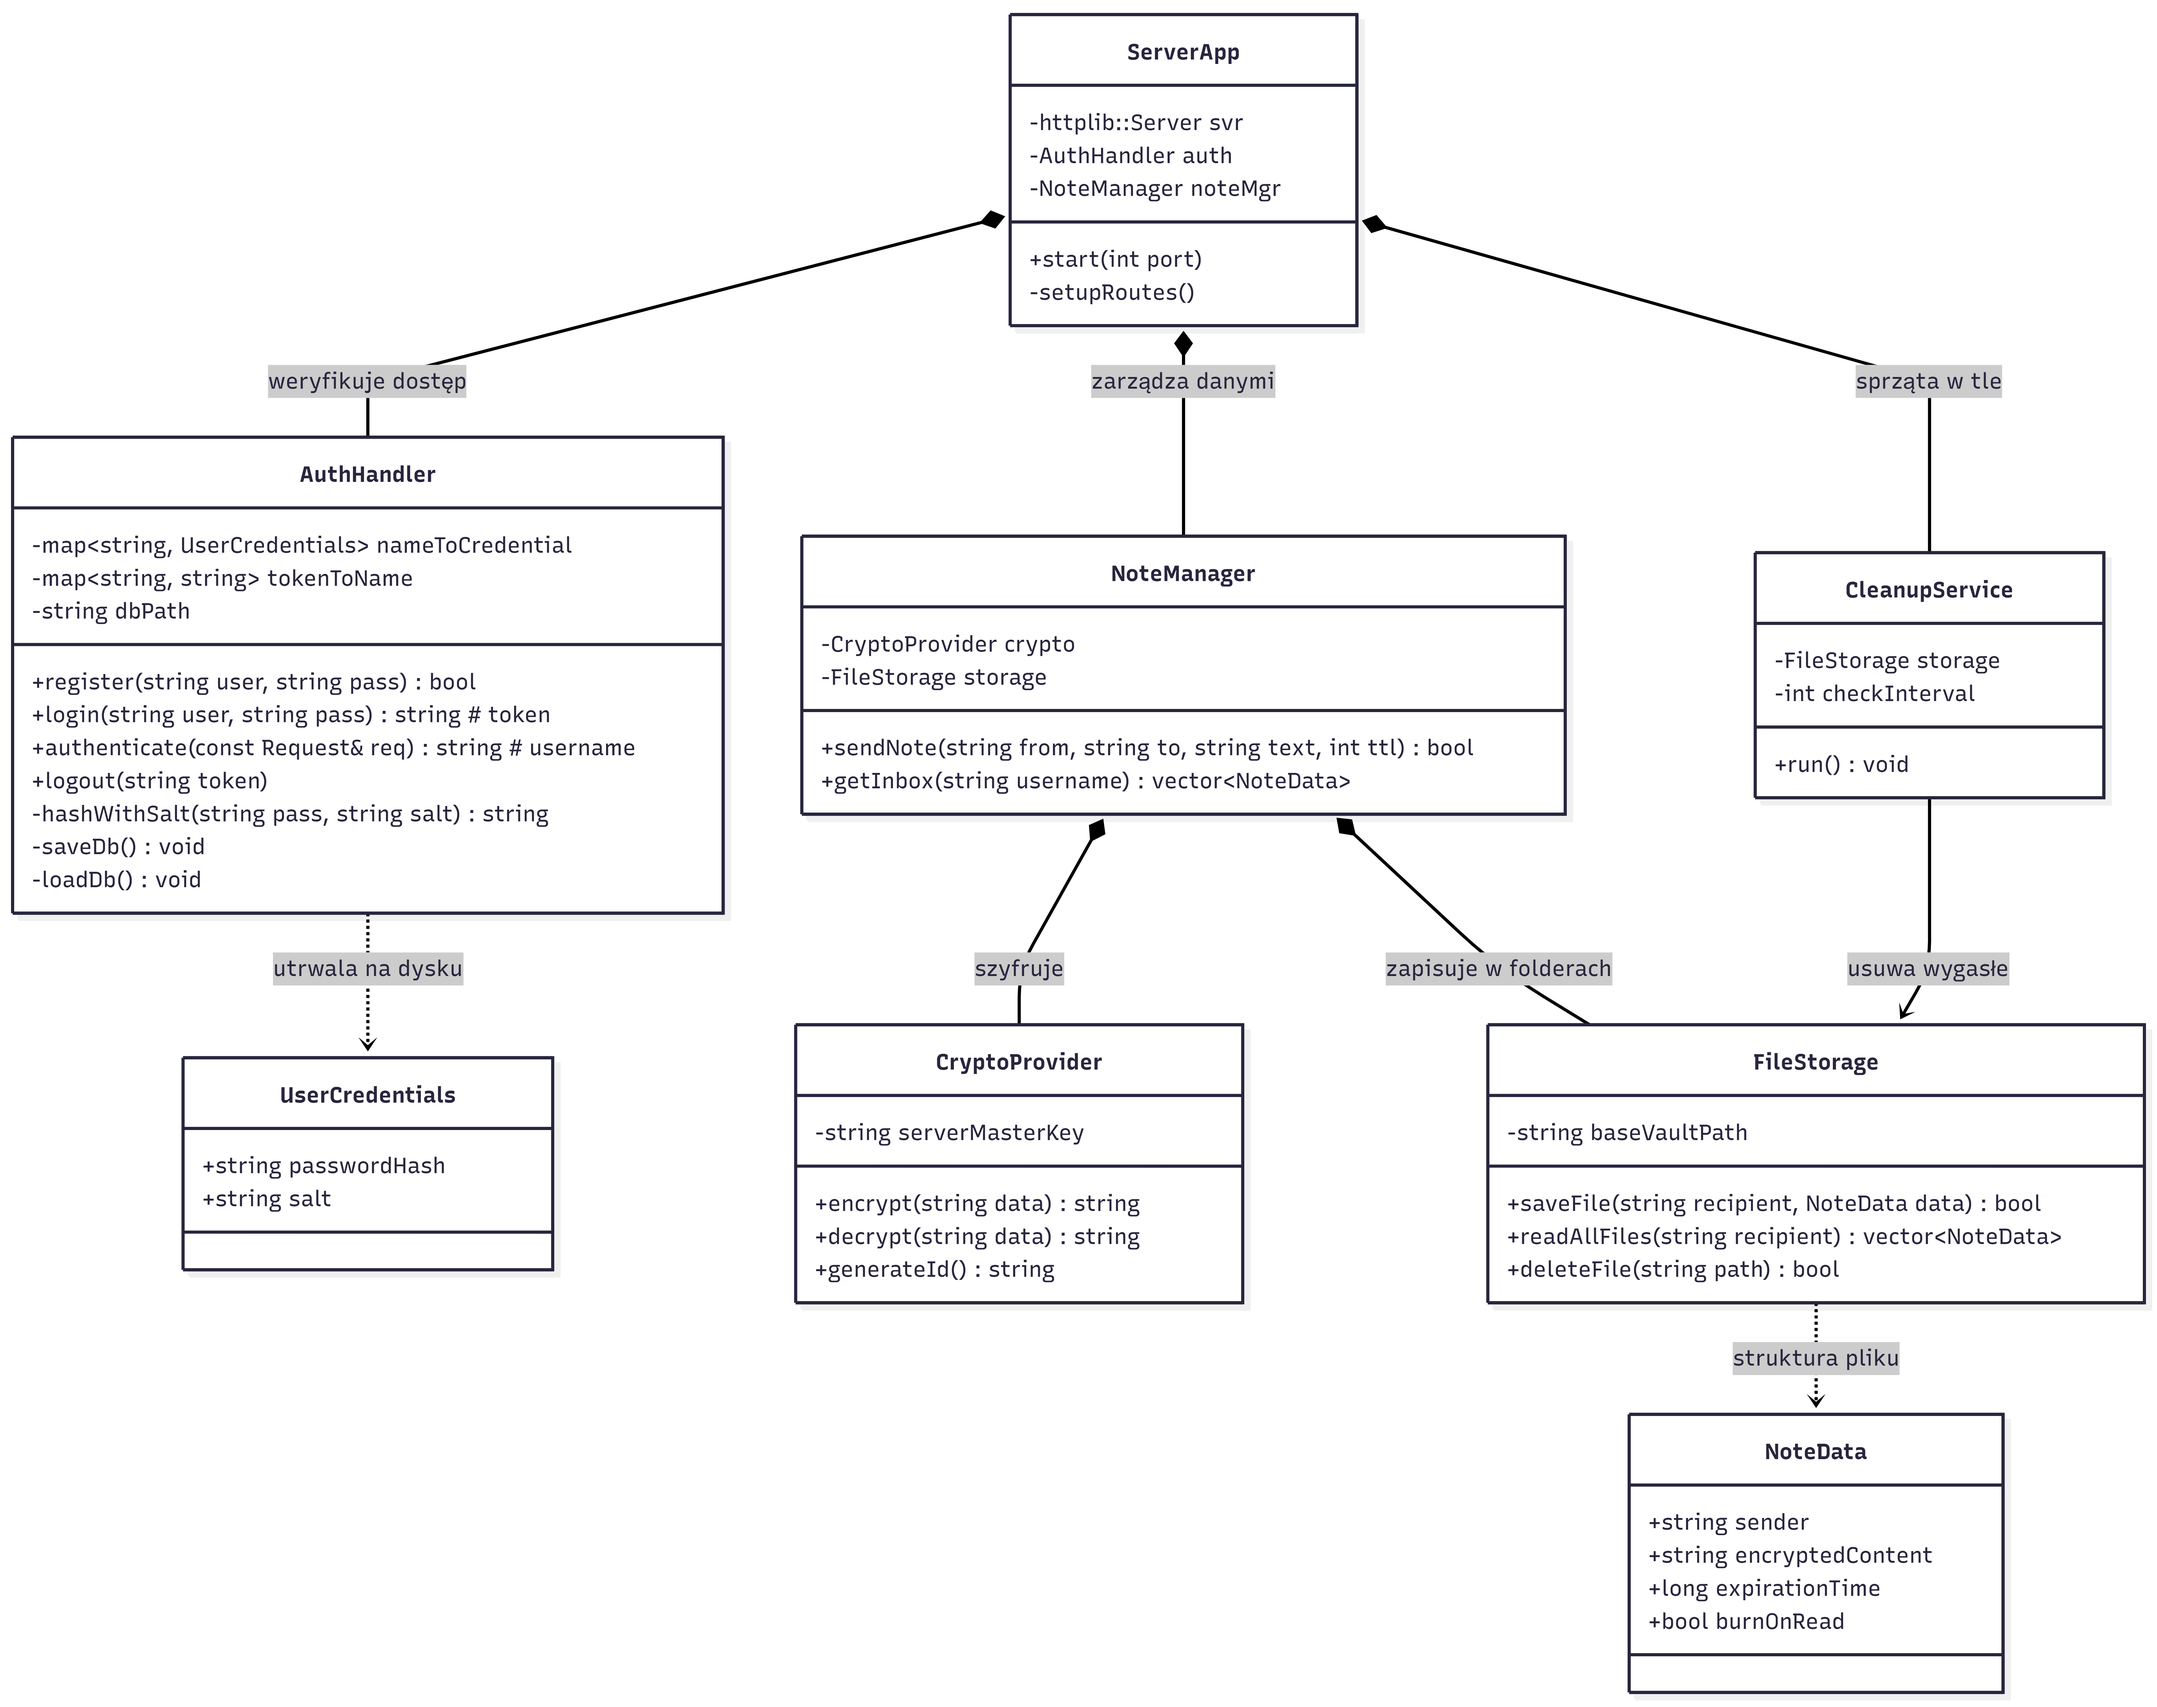
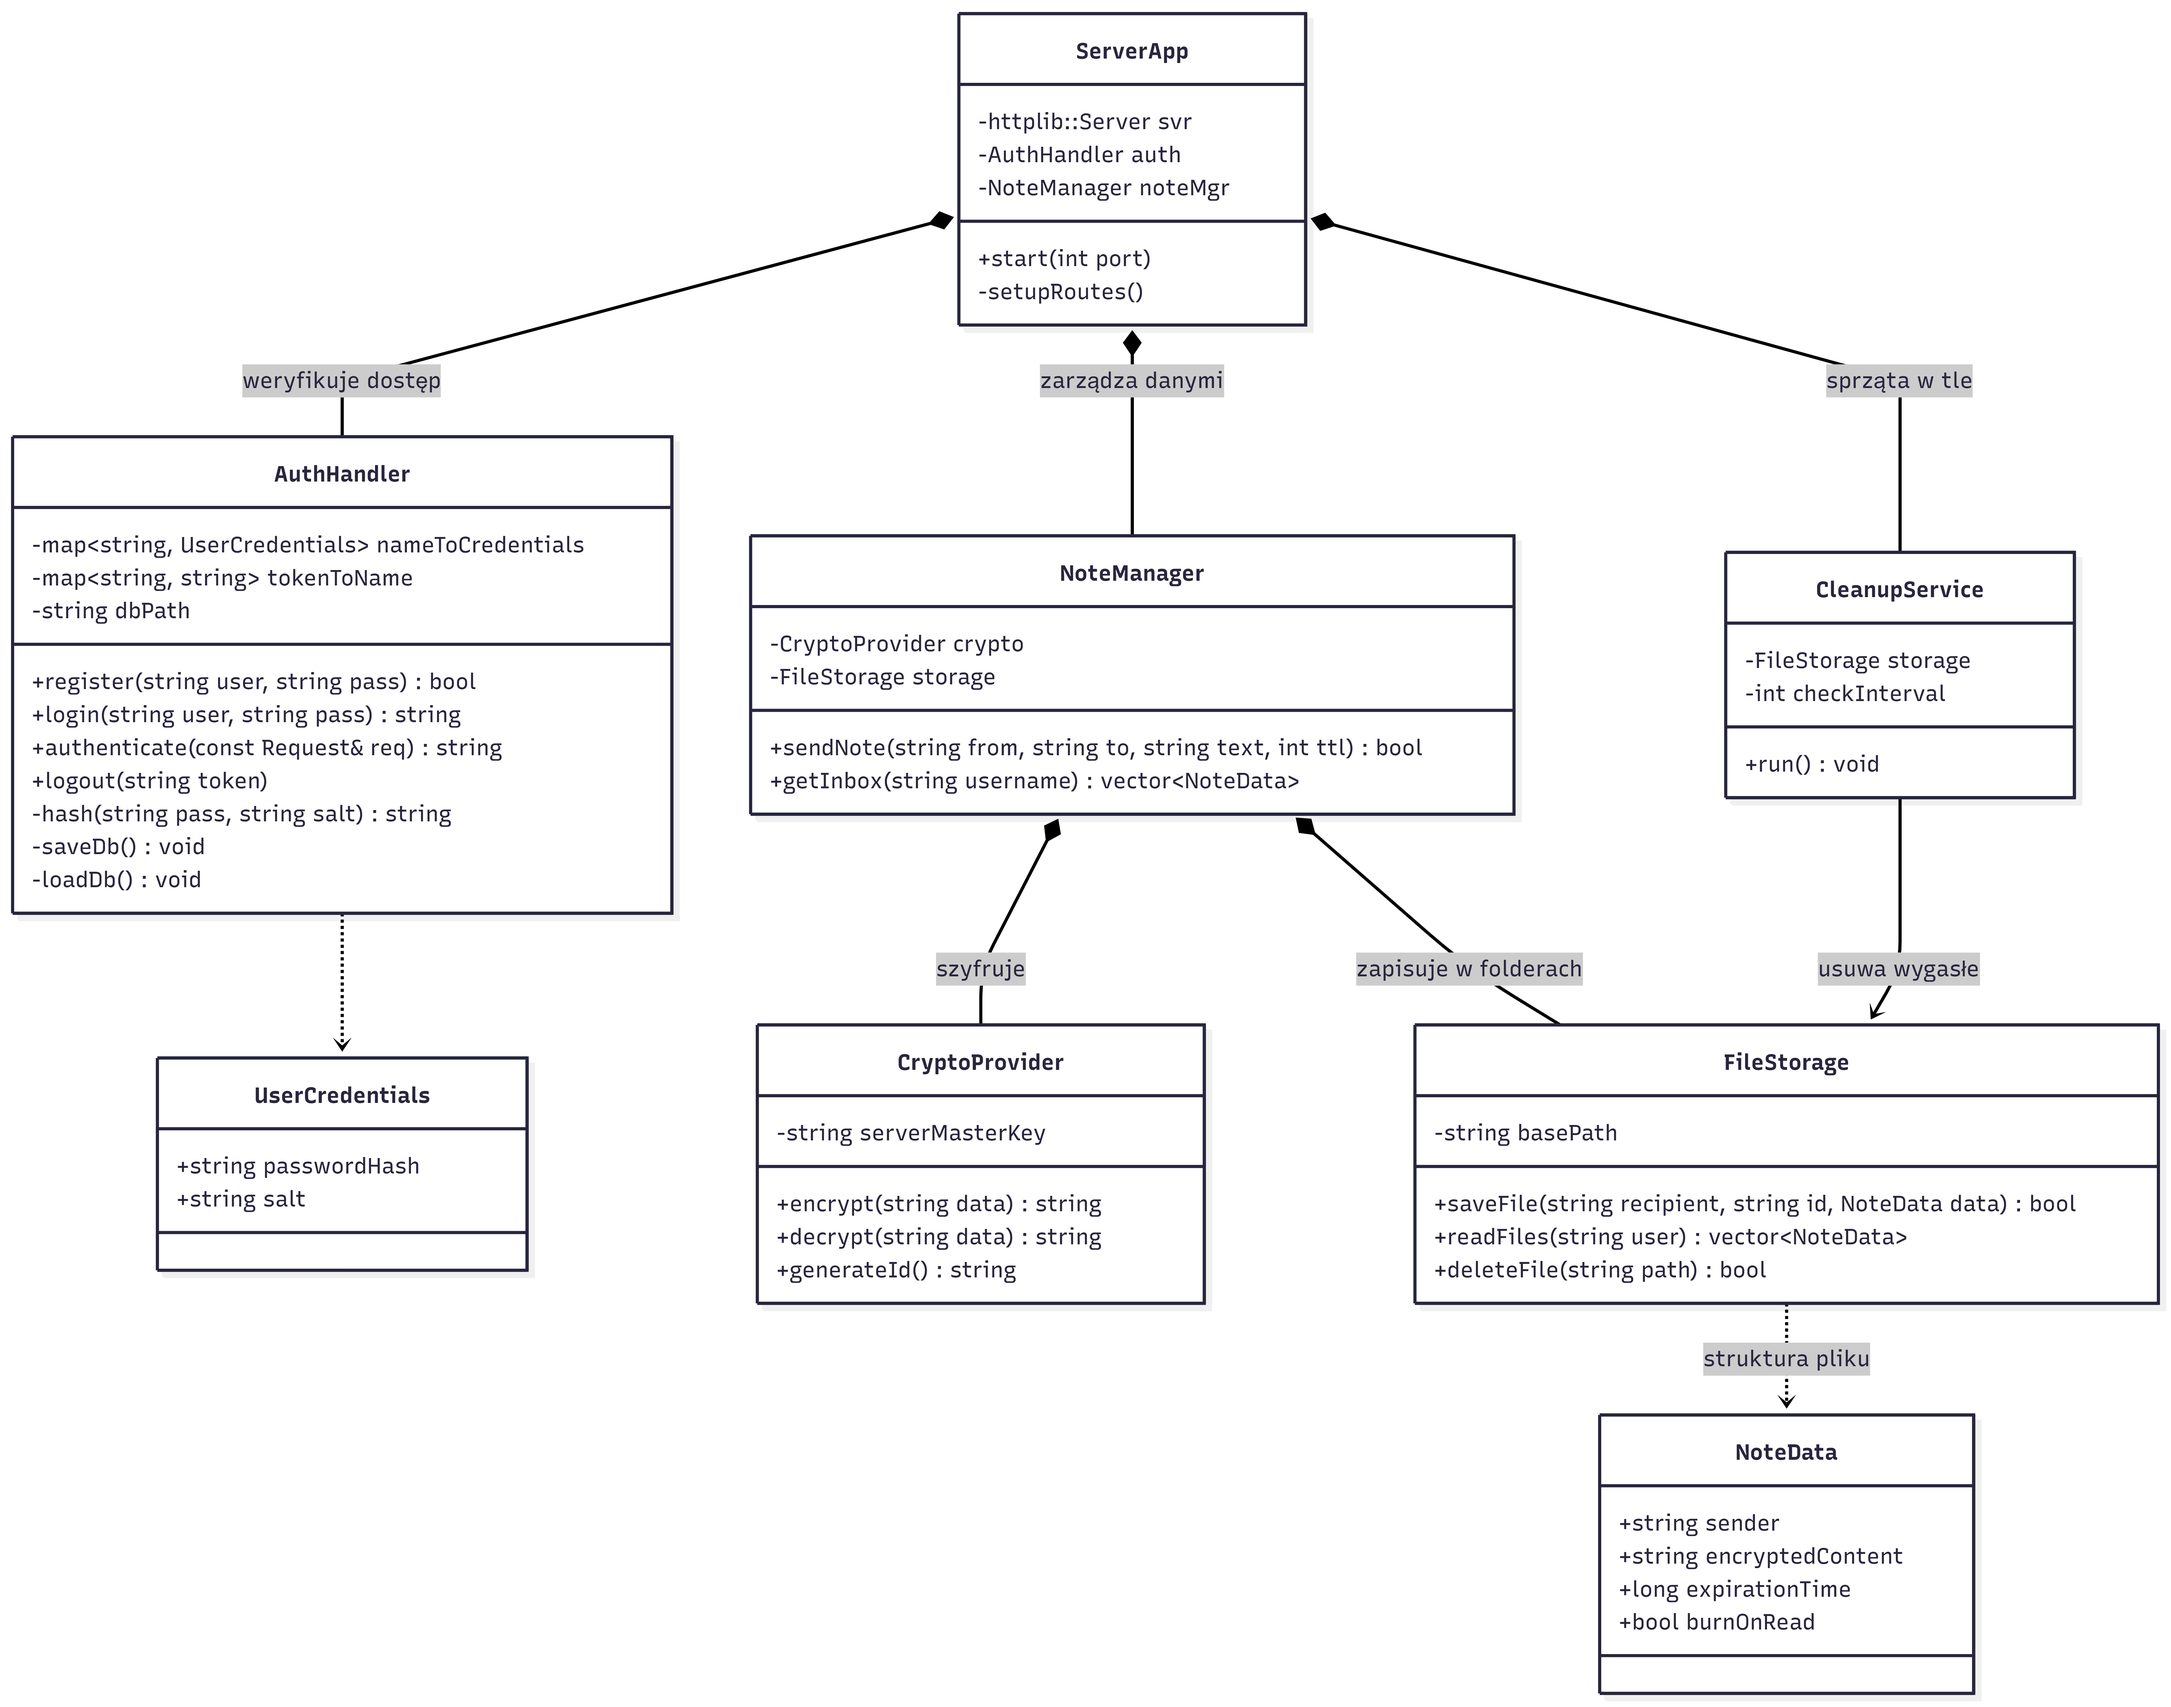
Started writing FileStorage

diff --git a/src/FIleStorage.cpp b/src/FIleStorage.cpp
@@ -1,0 +1,42 @@
+#include <iostream>
+#include <filesystem>
+#include <fstream>
+#include <FileStorage.hpp>
+
+namespace fs = std::filesystem;
+
+bool FileStorage::saveFile(std:: string recipeint, std::string id, NoteData data) {
+    try {
+        // Tworzymy ścieżkę do folderu użytkownika
+        fs::path userPath = fs::path(basePath) / recipeint;
+
+        // Jeśli folder nie istnieje to go tworzymy
+        if (!fs::exists(userPath)) {
+            fs::create_directory(userPath);
+        }
+
+        std::string fileName = id + ".bin";
+        fs::path filePath = userPath / fileName;
+
+        //Otwieramy plik do zapisu
+        std::ofstream outFile(filePath, std::ios::binary);
+        outFile << data.sender << "\n";
+        outFile << data.expirationTime << "\n";
+        outFile << data.burnOnRead << "\n";
+        outFile << data.content;
+        outFile.close();
+        return true;
+    }
+    catch (const fs::filesystem_error& e) {
+        std::cerr << "Blad podczas zapisu: " << e.what();
+        return false;
+    }
+}
+
+std::vector<NoteData> FileStorage::readFiles(std::string user) {
+    // do napisania
+}
+
+bool FileStorage::deleteFile(std::string path) {
+    // do napisania
+}

diff --git a/src/main.cpp b/src/main.cpp
@@ -1,5 +1,18 @@
 #include <iostream>
+#include <FileStorage.hpp>
+#include <NoteData.hpp>
+#include <string>
 
 int main() {
+    FileStorage storage("../data/vault");
+    std::string user = "piotr";
+    std::string id = "1234";
+    NoteData note;
+    note.sender = "samuel";
+    note.content = "tajna wiadomosc";
+    note.burnOnRead = true;
+    note.expirationTime = 123456;
+
+    storage.saveFile(user, id, note);
     return 0;
 }

diff --git a/include/NoteData.hpp b/include/NoteData.hpp
@@ -5,7 +5,7 @@
 
 struct NoteData {
     std::string sender;
-    std::string content;
-    bool burnOnRead;
     int64_t expirationTime;
+    bool burnOnRead;
+    std::string content;
 };
